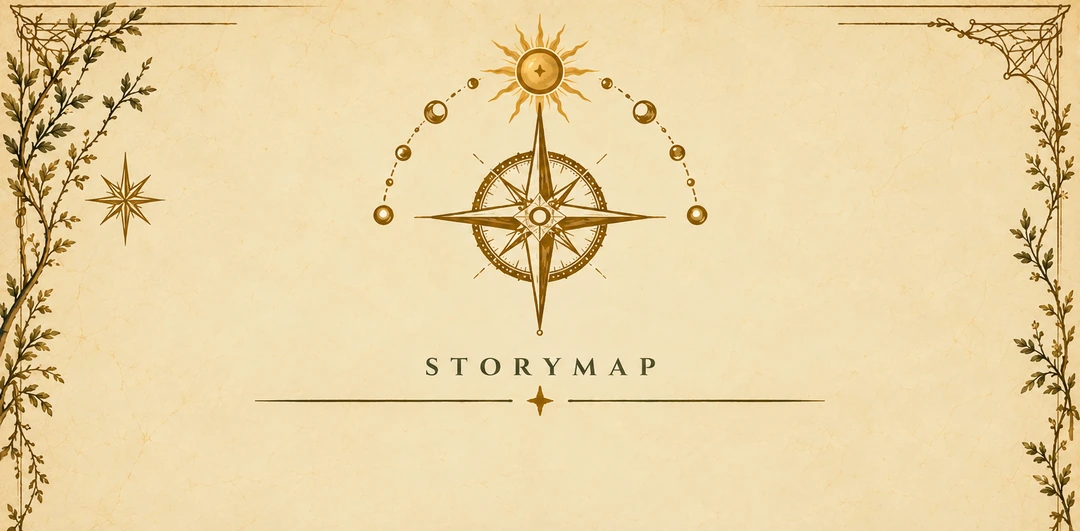
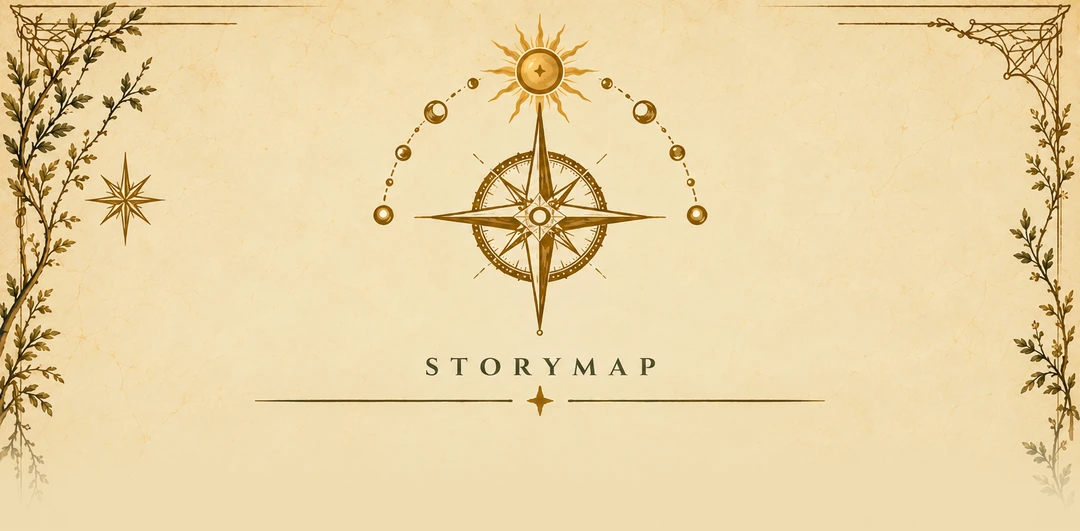
The drawer plate should thin out, not stop
Seen on the phone: the header's vine borders ended on a hard horizontal line
and the paper met the panel with a faint colour step. One cause, not two --
a bare crop, with the rail matched to the average of a bottom edge that the
plate's own vignette makes uneven. Cross-fading the bottom 30% to the rail
answers both: the vines dissolve just below STORYMAP the way a drawn border
thins out, and the last row is the rail by construction.

Two arithmetic traps found on the way, both recorded in §32.6. The ramp has
to divide by rows-1 or its final row never lands on the target, which reads
as a codec artefact and survives every quality setting -- the tell is that
lossless does not fix it either. And the rail has to be read back off the
ENCODED file, since WEBP moves that row a unit whatever it is handed; both
values are a fixed point of the script now.

Changed region(s): [[0.9472, 0.7834, 1.0, 1.0], [0.0, 0.7834, 0.0611, 1.0]]

diff --git a/mobile/src/theme.ts b/mobile/src/theme.ts
@@ -84,11 +84,13 @@ export const NIGHT_COLORS: ThemeColors = {
   error: '#b8542e',
   // BOTH drawers are parchment now (2026-09-05): day and night are the same two plates with
   // a sun or a crescent over the rose, so they are one object at two hours rather than two
-  // objects. The cream is the plate's OWN bottom edge, sampled from the cropped header's flat bottom
-  // edge by scripts/build-drawer-plates.py, which prints both values when it runs -- the panel matches the paper, the paper does not
+  // objects. The cream is the plate's OWN bottom edge, read back off the ENCODED header's last
+  // row by scripts/build-drawer-plates.py, which prints both values when it runs. That row is
+  // uniform because the plate's bottom 30% is cross-faded to the rail -- which is also what
+  // stops the vine borders ending on a hard line -- the panel matches the paper, the paper does not
   // match the panel. That is what lets the header stop and the rail start with nothing drawn
   // over the join.
-  rail: '#efdbb4',
+  rail: '#efdcb5',
   // Gold in both modes. The app's #c69a3a reads at 2.3:1 on parchment -- gold in name, grey
   // in effect -- so this is the same hue carried down to 4.1:1: legibly gold rather than
   // nominally gold.
@@ -112,7 +114,7 @@ export const DAY_COLORS: ThemeColors = {
   // Day's drawer is the same parchment as night's, sampled the same way from its own plate
   // (drawer-day-header.webp, flat bottom edge). The olive drawer is gone with the single
   // full-height plate it belonged to; see NIGHT_COLORS for why the sampling matters.
-  rail: '#efdcb2',
+  rail: '#efddb1',
   railInk: '#7d5f2c',
   railDim: '#a08a5e',
 };

diff --git a/scripts/build-drawer-plates.py b/scripts/build-drawer-plates.py
@@ -13,11 +13,16 @@ it also prints the rail colours theme.ts must carry.
 
 Three transforms, each fixing something the generator does that the app cannot use:
 
-1. HEADERS are cropped to their last fully opaque row. The generator ends them with a ragged
-   torn-paper alpha fade, and the day plate came back flattened onto its own checkerboard, so
-   its fade region is contaminated grey. Cropping discards both problems and leaves a flat
-   parchment bottom edge -- which is then sampled for the panel colour, so the picture stops
-   and the rail starts with nothing drawn over the join.
+1. HEADERS are cropped to their last fully opaque row, then their bottom 30% is cross-faded
+   to the rail. The generator ends them with a ragged torn-paper alpha fade, and the day plate
+   came back flattened onto its own checkerboard, so its fade region is contaminated grey;
+   cropping discards both. But a bare crop was wrong on the phone in two ways at once -- the
+   vine borders stopped dead on a horizontal line, and the paper's own vignette made its edges
+   land off the average the rail was sampled from, so the join showed as a faint colour step.
+   Fading the band to the rail fixes both from one cause: the vines dissolve well above the
+   join instead of being chopped, and the last row IS the rail by construction, so there is
+   no step left to see. 30% puts the dissolve just under STORYMAP; 14% and 22% both still
+   left a visible vine stub at the title line.
 
 2. CITIES have the dead RGB under their alpha ramp replaced, then are flattened onto the rail.
    The generator leaves fully transparent pixels black; LANCZOS does not know they are
@@ -43,7 +48,7 @@ OUT = 'mobile/assets'
 # so the result is identical on screen, no half-transparent pixel can land lighter than the
 # panel the way §32.2 found, and an opaque WEBP compresses far better than one carrying an
 # alpha channel.
-RAIL = {'day': (0xef, 0xdc, 0xb2), 'night': (0xef, 0xdb, 0xb4)}
+RAIL = {'day': (0xef, 0xdd, 0xb2), 'night': (0xef, 0xdc, 0xb5)}
 
 # Measured, not chosen: the last row of both header plates where the parchment is still
 # fully opaque and clean. Both plates are 1586x992 and share the crop, so day and night have
@@ -51,6 +56,7 @@ RAIL = {'day': (0xef, 0xdc, 0xb2), 'night': (0xef, 0xdb, 0xb4)}
 HEADER_CROP = 780
 HEADER_W = 1080
 CITY_SIZE = (1080, 720)          # 3:2, the slot the drawer gives it
+HEADER_FADE = 0.30               # bottom fraction cross-faded to RAIL
 NIGHT_RAMP = 0.45
 
 
@@ -72,14 +78,34 @@ def build_header(mode, src):
     w, _ = im.size
     im = im.crop((0, 0, w, HEADER_CROP))
     im = im.resize((HEADER_W, round(HEADER_W * HEADER_CROP / w)), Image.LANCZOS)
+
+    bw, bh = im.size
+
+    # Cross-fade the foot to the rail so the vines dissolve and the join cannot show a step.
+    px = im.load()
+    r0, g0, b0 = RAIL[mode]
+    rows = int(bh * HEADER_FADE)
+    start = bh - rows
+    for y in range(start, bh):
+        # rows - 1, not rows: the divisor has to make the LAST row land on exactly 1.0, or
+        # the plate's own pixels still contribute a unit or two there and the join keeps a
+        # faint step. Re-encoding at higher quality does not help -- the spread is in the
+        # ramp, not the codec.
+        s = smootherstep((y - start) / (rows - 1))
+        for x in range(bw):
+            r, g, b = px[x, y]
+            px[x, y] = (int(r + (r0 - r) * s), int(g + (g0 - g) * s), int(b + (b0 - b) * s))
+
     path = f'{OUT}/drawer-{mode}-header.webp'
     im.save(path, 'WEBP', quality=92, method=6)
 
-    # The panel colour theme.ts must use, taken from the plate's own bottom edge with the
-    # vine borders excluded. The panel matches the paper; the paper does not match the panel.
-    bw, bh = im.size
-    band = list(im.crop((int(bw * 0.25), bh - 6, int(bw * 0.75), bh)).getdata())
-    rail = tuple(sum(c[i] for c in band) // len(band) for i in range(3))
+    # The rail theme.ts must carry, read back off the ENCODED file's last row rather than
+    # off the image in memory. The fade makes that row uniform, but WEBP still moves it a
+    # unit or two, and the value that matters is the one the device draws -- a panel painted
+    # with what was intended rather than with what shipped is a seam again, just a smaller one.
+    done = Image.open(path).convert('RGB')
+    row = [done.getpixel((x, done.size[1] - 1)) for x in range(done.size[0])]
+    rail = tuple(sum(c[i] for c in row) // len(row) for i in range(3))
     print(f'{path}  {im.size}  ratio {bw / bh:.4f}  '
           f'{os.path.getsize(path) // 1024} KB  rail #%02x%02x%02x' % rail)
 

diff --git a/STORYMAP_CODEBASE_HANDOFF.md b/STORYMAP_CODEBASE_HANDOFF.md
@@ -4556,7 +4556,14 @@ to be: it is the element that moves when a section expands.
 exists because the generator returns three things the app cannot use directly, and each fix is
 measured rather than judged:
 
-**Headers are cropped to their last clean opaque row (780 of 992).** Both plates end in a
+**Headers are cropped to their last clean opaque row (780 of 992), then cross-faded to the
+rail over their bottom 30%.** The bare crop was wrong on the phone in two ways that turned out
+to be one cause: the vine borders stopped dead on a horizontal line, and the paper's own
+vignette made its edges sit off the average the rail was sampled from, so the join carried a
+faint colour step. Fading the foot to the rail fixes both — the vines dissolve just below
+STORYMAP instead of being chopped, and the last row IS the rail, so there is no step left.
+14% and 22% both still left a vine stub at the title line; 30% is the first that reads as the
+border thinning out. Both plates end in a
 ragged torn-paper alpha fade, and the day plate came back *flattened onto its own
 checkerboard*, so every row inside its fade is contaminated grey — reconstructing that alpha
 was not worth attempting. Cropping discards both problems at once and leaves a flat parchment
@@ -4575,6 +4582,14 @@ only lever is how far that grey is spread. Short, it is a distinct band of haze 
 the picture. Spread, the same pixels read as atmosphere *above* the clouds. 28% still banded
 and 60% washed the cloud detail out, so 45% is the middle that was chosen by looking at all
 three. Day needs none of this — its sky is pale and its supplied ramp already runs 44% down.
+
+**Two traps in the ramp arithmetic.** Divide by `rows - 1`, not `rows`: otherwise the final
+row never reaches 1.0, the plate's own pixels still contribute a unit or two, and the join
+keeps a step that looks exactly like a codec artefact — re-encoding at quality 100 or even
+lossless does not shift it, which is the tell. And sample the rail off the **encoded** file's
+last row, not the image in memory: WEBP moves it a unit regardless, and a panel painted with
+what was intended rather than with what shipped is a seam again, just a smaller one. Both
+values are a fixed point of the script now — night exactly, day within one unit of blue.
 
 **The trap that cost a pass**: `Image.getchannel('A')` returns a COPY. Editing what its
 `load()` hands back changes nothing, and the ramp variants all came out identical and looked
